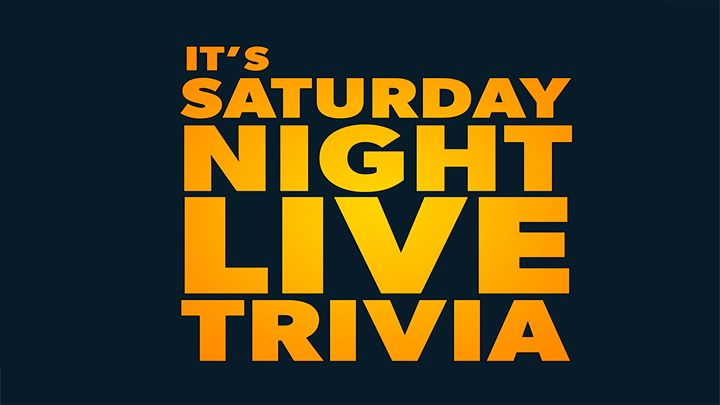
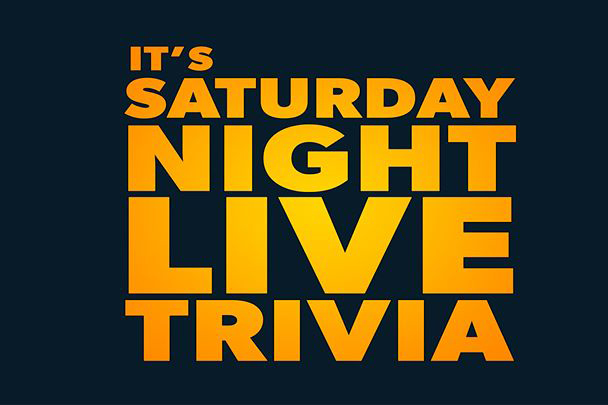
fixed box image alignment issue

Changed region(s): [[0.1875, 0.0889, 0.875, 0.9185]]

diff --git a/the_gathering/static/css/style.css b/the_gathering/static/css/style.css
@@ -256,7 +256,7 @@ header {
 }
 
 .box-image {
-    height: 65vh;
+    height: 620px;
     width: 120% !important;
     margin-top: -50px;
 }
@@ -285,12 +285,8 @@ header {
     z-index: 2;
 }
 
-#about-history-right {
-    padding-top: 10%;
-}
-
-#reservation-right, #private-event-patio-left {
-    padding-top: 7%;
+#about-history-right, #reservation-right, #private-event-patio-left {
+    padding-top: 6%;
 }
 
 .bg-white {
@@ -457,6 +453,10 @@ hr .sign-up {
     top: 0;
     width: 106%;
     margin-left: -7%;
+}
+
+.nav-tabs {
+    font-size: 1.1em;
 }
 
 .nav-tabs, .nav-link, .nav-tabs .nav-link, .nav-link.active, .nav-tabs
